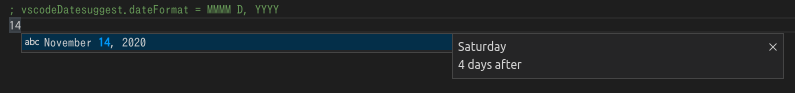
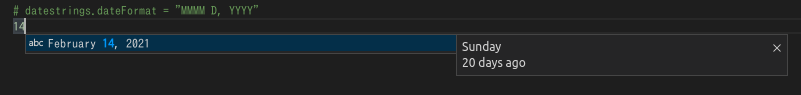
Update README examples

diff --git a/doc/images/MMMM_D_YYYY.py b/doc/images/MMMM_D_YYYY.py
@@ -1,0 +1,2 @@
+# datestrings.dateFormat = "MMMM D, YYYY"
+14

diff --git a/doc/images/YYYY-MM-DD.c b/doc/images/YYYY-MM-DD.c
@@ -1,0 +1,2 @@
+// datestrings.dateFormat = "YYYY-MM-DD"
+-28
